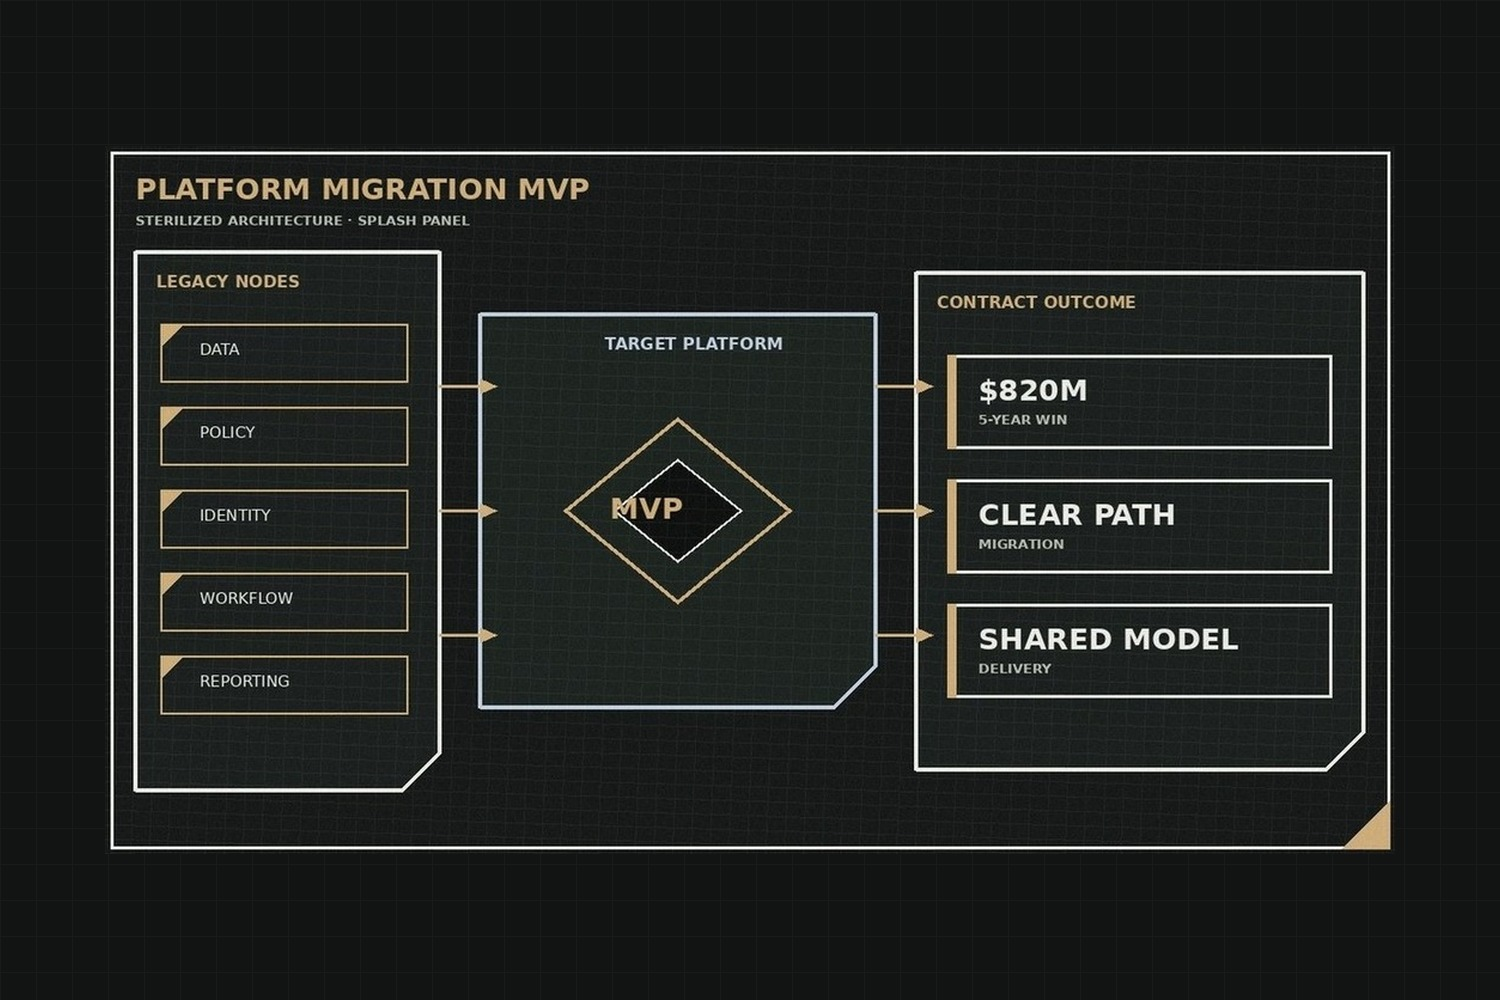
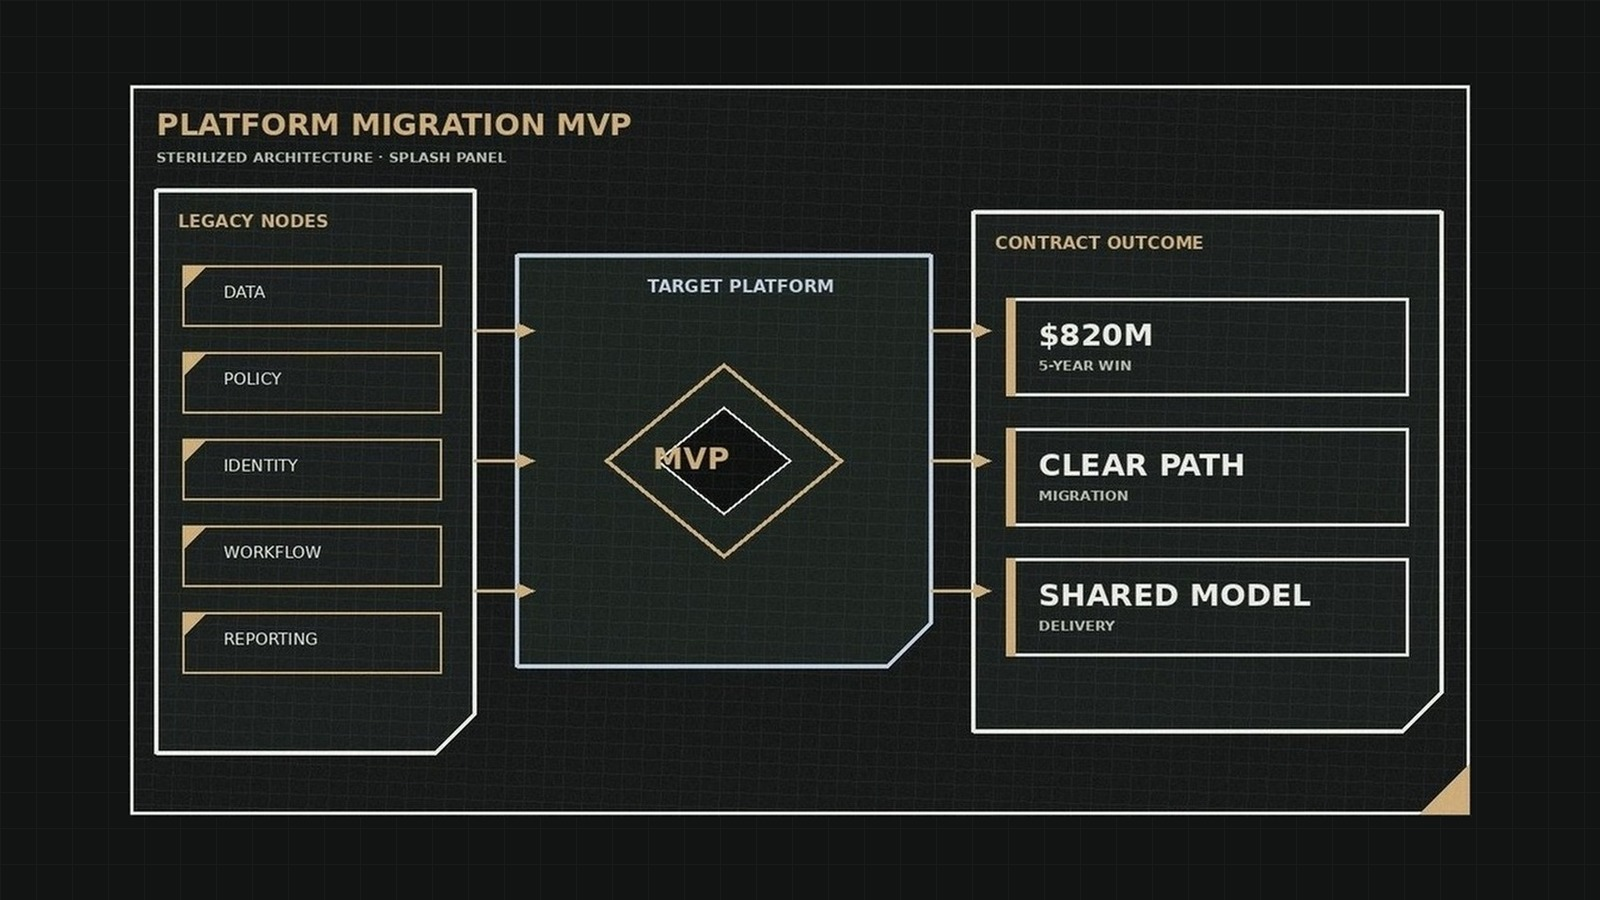
Fix MVP featured thumb: 16:9 media band above copy
Stop overlaying a contain-fitted poster behind an opaque plate (which
hid the diagram). Give the architecture art its own 16:9 frame filled
with cover, stacked above the case plate.

Changed region(s): [[0.0613, 0.0933, 0.9507, 0.9333], [0.368, 0.4044, 0.5213, 0.6222]]

diff --git a/src/app/globals.css b/src/app/globals.css
@@ -928,11 +928,12 @@ a {
 
 .featured-case__poster {
   position: relative;
+  display: grid;
+  gap: 0;
   overflow: hidden;
   border: var(--panel-border) solid color-mix(in oklab, var(--panel-rule) 60%, var(--border));
   background: var(--ink);
   clip-path: var(--slash-deep);
-  min-height: min(72vh, 640px);
 }
 
 .featured-case--dow .featured-case__poster {
@@ -941,21 +942,24 @@ a {
 
 .featured-case__media {
   display: block;
-  position: absolute;
-  inset: 0;
+  position: relative;
+  z-index: 0;
+  order: 1;
+  aspect-ratio: 16 / 9;
   background: #191d1c;
+  overflow: hidden;
 }
 
 .featured-case__img {
-  object-fit: contain;
-  object-position: center right;
+  object-fit: cover;
+  object-position: center;
   display: block;
   transition: transform 700ms ease;
 }
 
 .featured-case__media:hover .featured-case__img,
 .featured-case__media:focus-visible .featured-case__img {
-  transform: scale(1.035);
+  transform: scale(1.02);
 }
 
 .featured-case__media:focus-visible {
@@ -969,54 +973,24 @@ a {
   background: linear-gradient(135deg, var(--surface), color-mix(in oklab, var(--accent) 14%, var(--bg)));
 }
 
-.featured-case__poster::before {
-  content: "";
-  position: absolute;
-  inset: 0;
-  z-index: 1;
-  pointer-events: none;
-  background:
-    linear-gradient(
-      105deg,
-      color-mix(in oklab, var(--ink) 88%, transparent) 0%,
-      color-mix(in oklab, var(--ink) 55%, transparent) 42%,
-      transparent 72%
-    ),
-    linear-gradient(
-      180deg,
-      transparent 35%,
-      color-mix(in oklab, var(--ink) 82%, transparent) 100%
-    );
-}
-
 .featured-case__plate {
   position: relative;
   z-index: 2;
-  max-width: min(var(--measure), 100%);
-  margin: auto 0 0;
+  order: 2;
+  max-width: none;
+  margin: 0;
   padding: var(--space-card-pad);
-  background: color-mix(in oklab, var(--ink) 82%, transparent);
+  background: color-mix(in oklab, var(--ink) 92%, transparent);
   border-top: var(--panel-border) solid var(--accent);
-  border-right: var(--panel-border) solid color-mix(in oklab, var(--panel-rule) 45%, transparent);
   backdrop-filter: blur(8px);
-  clip-path: var(--slash);
 }
 
 @media (min-width: 960px) {
-  .featured-case__poster {
-    display: grid;
-    align-items: end;
-    min-height: min(78vh, 720px);
-  }
-
   .featured-case__plate {
-    margin: 0;
-    width: min(34rem, 46%);
-    border: var(--panel-border) solid var(--panel-rule);
-    border-top-color: var(--accent);
-    box-shadow: 12px 14px 0 var(--ink);
+    max-width: min(40rem, 100%);
   }
 }
+
 
 .featured-case__eyebrow {
   margin: 0 0 0.75rem;
@@ -1681,3 +1655,4 @@ a {
   border-bottom: 1px solid color-mix(in oklab, var(--accent) 40%, transparent);
   width: fit-content;
 }
+

diff --git a/src/content/cases.ts b/src/content/cases.ts
@@ -64,7 +64,6 @@ export const cases: CaseStudy[] = [
     tags: ["platform", "federal", "DOW", "migration"],
     dowAccent: true,
     thumb: "/images/cases/dow-platform-migration-mvp.jpg",
-    posterThumb: "/images/cases/dow-platform-migration-mvp-poster.jpg",
     thumbAlt: "Sterilized platform migration architecture diagram",
     teaser:
       "Design and requirements for a platform migration MVP that helped win an $820M, five-year contract.",
